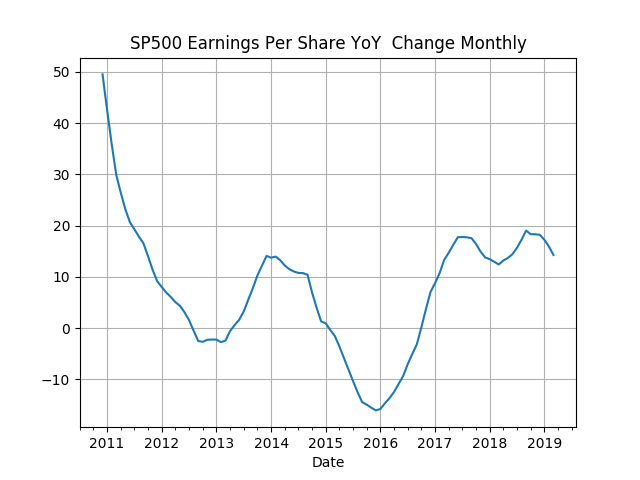
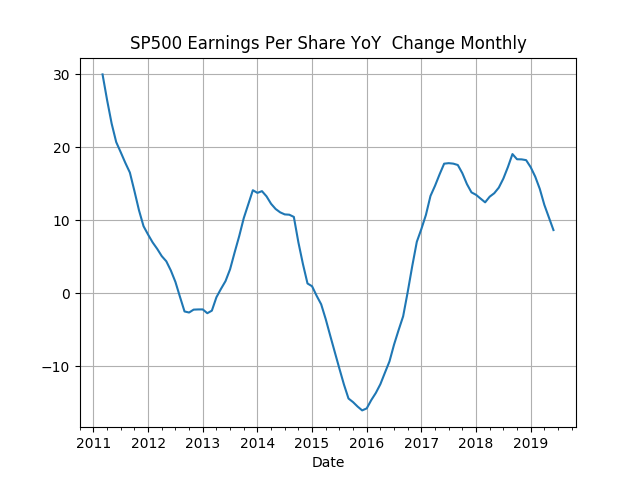
-

diff --git a/en/2019/05/stats.md b/en/2019/05/stats.md
@@ -155,9 +155,9 @@ df3['unempl'] = 100.0 - df3.CIVPART
 ```python
 plt.figure(figsize=(14, 5))
 plt.subplot(121)
-df3['wagegrowth'].plot()
+df3['wagegrowth'].plot(title='Wave Growth')
 plt.subplot(122)
-df3['unempl'].plot() 
+df3['unempl'].plot(title='Unemployment') 
 plt.savefig('unemploy.png')
 ```
 
@@ -190,9 +190,9 @@ plt.savefig('pmi.png')
 
 ```text
 Date
-2019-07-01    51.2
 2019-08-01    49.1
 2019-09-01    47.8
+2019-10-01    48.3
 Name: PMI, dtype: float64
 ```
 
@@ -245,7 +245,6 @@ print (df.tail(10))
 ```text
             Value
 Date             
-2018-12-31  1.910
 2019-01-31  1.551
 2019-02-28  1.520
 2019-03-31  1.863
@@ -255,6 +254,7 @@ Date
 2019-07-31  1.811
 2019-08-31  1.750
 2019-09-30  1.711
+2019-10-31  1.764
 ```
 
 <a name="#cpyoy"></a>
@@ -282,11 +282,11 @@ print (df.tail(5).epsyoy)
 
 ```text
 Date
-2018-11-30    18.339070
-2018-12-31    18.233494
-2019-01-31    17.267618
-2019-02-28    15.960355
-2019-03-31    14.290529
+2019-02-28    15.965167
+2019-03-31    14.288120
+2019-04-30    12.103388
+2019-05-31    10.383361
+2019-06-30     8.653846
 Name: epsyoy, dtype: float64
 ```
 
